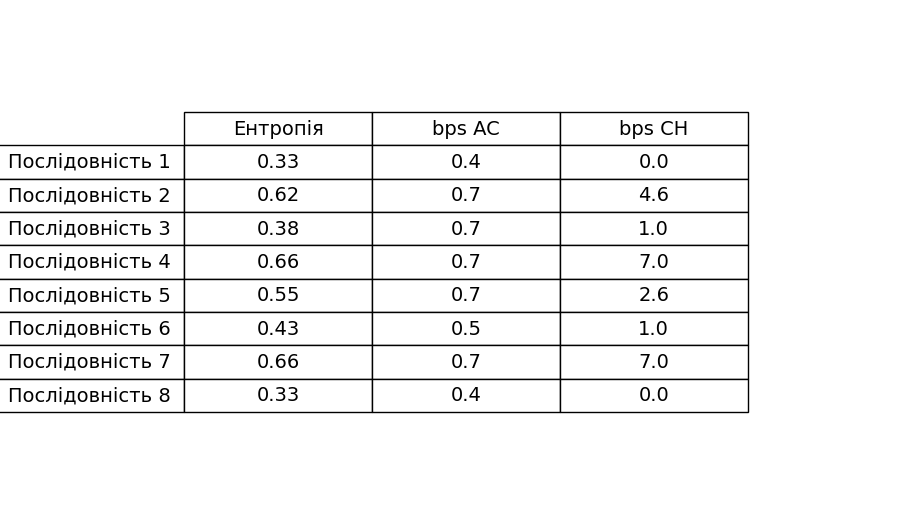
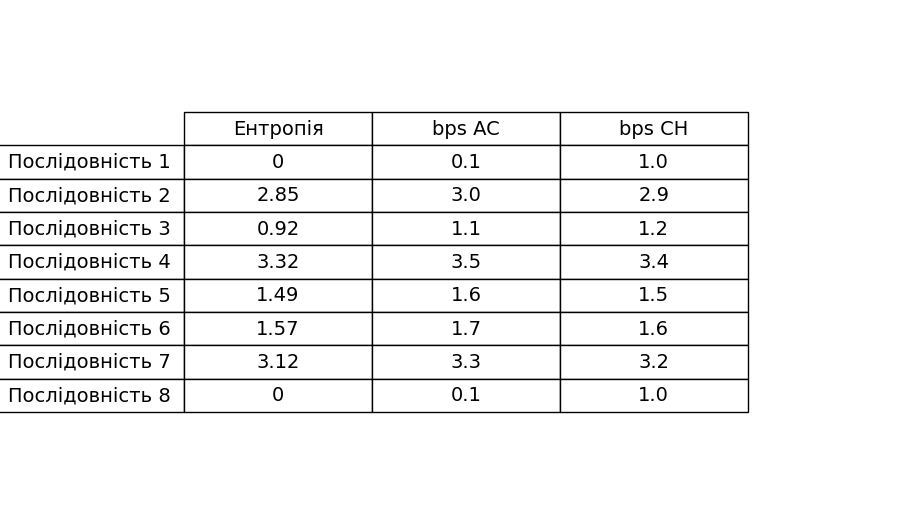
LesselessCompression,3,edited

diff --git a/LosslessСompression/achccompression.py b/LosslessСompression/achccompression.py
@@ -14,6 +14,10 @@ def encode_ac(unique_chars, probabilitys, alphabet_size, sequence):
         u = probability_range
         unity.append([alphabet[i], l, u])
 
+    # Перевірка нормалізації ймовірностей
+    if not (0.99 <= sum(probability) <= 1.01):  # Допускаємо невелику похибку
+        raise ValueError(f"Ймовірності не нормалізовані: sum={sum(probability)}")
+
     for i in range(len(sequence) - 1):
         for j in range(len(unity)):
             if sequence[i] == unity[j][0]:
@@ -23,12 +27,24 @@ def encode_ac(unique_chars, probabilitys, alphabet_size, sequence):
                 for k in range(len(unity)):
                     unity[k][1] = probability_low
                     unity[k][2] = probability[k] * diff + probability_low
+                    probability_low = unity[k][2]
                 break
 
-    point = (unity[0][1] + unity[0][2]) / 2
-    size_cod = int(-math.log2(min(probability))) + 1
+    low = 0
+    high = 0
+    for i in range(len(unity)):
+        if unity[i][0] == sequence[-1]:
+            low = unity[i][1]
+            high = unity[i][2]
+            break
+
+    if high <= low:
+        raise ValueError(f"Помилка: high ({high}) <= low ({low}) для символу {sequence[-1]}")
+
+    point = (low + high) / 2
+    cod = math.ceil(math.log2(1 / (high - low))) + 1
     binary_code = ""
-    for _ in range(size_cod):
+    for _ in range(cod):
         point *= 2
         if point > 1:
             binary_code += "1"
@@ -63,6 +79,7 @@ def decode_ac(encoded_data_ac, sequence_length):
                 for k in range(len(unity)):
                     unity[k][1] = prob_low
                     unity[k][2] = probability[k] * diff + prob_low
+                point = (point - prob_low) / diff
                 break
 
     return decoded_sequence
@@ -98,7 +115,7 @@ def encode_ch(unique_chars, probabilitys, sequence):
                 code += "0"
                 if alphabet[i] == tree[j][0]:
                     break
-            else:
+            elif alphabet[i] in tree[j][1]:
                 code += "1"
                 if alphabet[i] == tree[j][1]:
                     break
@@ -110,27 +127,16 @@ def encode_ch(unique_chars, probabilitys, sequence):
 
 def decode_ch(encoded_sequence):
     encode, symbol_code = encoded_sequence
-    encode = list(encode)
     sequence = ""
-    count = 0
-    flag = 0
+    current_code = ""
 
-    i = 0
-    while i < len(encode):
-        for j in range(len(symbol_code)):
-            if encode[i] == symbol_code[j][1]:
-                sequence += symbol_code[j][0]
-                flag = 1
+    for bit in encode:
+        current_code += bit
+        for sym, code in symbol_code:
+            if current_code == code:
+                sequence += sym
+                current_code = ""
                 break
-        if flag == 1:
-            flag = 0
-            i += 1
-        else:
-            count += 1
-            if count == len(encode):
-                break
-            encode[i] = encode[i] + encode[i + 1]
-            encode.pop(i + 1)
 
     return sequence
 
@@ -148,18 +154,31 @@ for i, seq in enumerate(sequences, 1):
 original_sequences = [seq[:10] for seq in sequences]
 
 results = []
+results = []
 with open("results_AC_CH.txt", "w", encoding="utf-8") as f:
     for idx, sequence in enumerate(original_sequences, 1):
         sequence_length = len(sequence)
         unique_chars = set(sequence)
         sequence_alphabet_size = len(unique_chars)
         counts = collections.Counter(sequence)
-        probability = {symbol: count / 100 for symbol, count in counts.items()}
-        entropy = -sum(p * math.log2(p) for p in probability.values())
+        probability = {symbol: count / sequence_length for symbol, count in counts.items()}
 
-        encoded_data_ac, encoded_sequence_ac = encode_ac(unique_chars, probability, sequence_alphabet_size, sequence)
-        bps_ac = len(encoded_sequence_ac) / sequence_length
-        decoded_ac = decode_ac(encoded_data_ac, sequence_length)
+        # Перевірка й обчислення ентропії
+        if sequence_alphabet_size == 1:
+            entropy = 0
+        else:
+            entropy = -sum(p * math.log2(p) for p in probability.values())
+            if abs(entropy) < 1e-10:  # Усунення числових похибок
+                entropy = 0
+
+        try:
+            encoded_data_ac, encoded_sequence_ac = encode_ac(unique_chars, probability, sequence_alphabet_size,
+                                                             sequence)
+            bps_ac = len(encoded_sequence_ac) / sequence_length
+            decoded_ac = decode_ac(encoded_data_ac, sequence_length)
+        except ValueError as e:
+            print(f"Помилка в AC для послідовності {idx}: {e}")
+            continue
 
         encoded_data_ch, encoded_sequence_ch = encode_ch(unique_chars, probability, sequence)
         bps_ch = len(encoded_sequence_ch) / sequence_length
